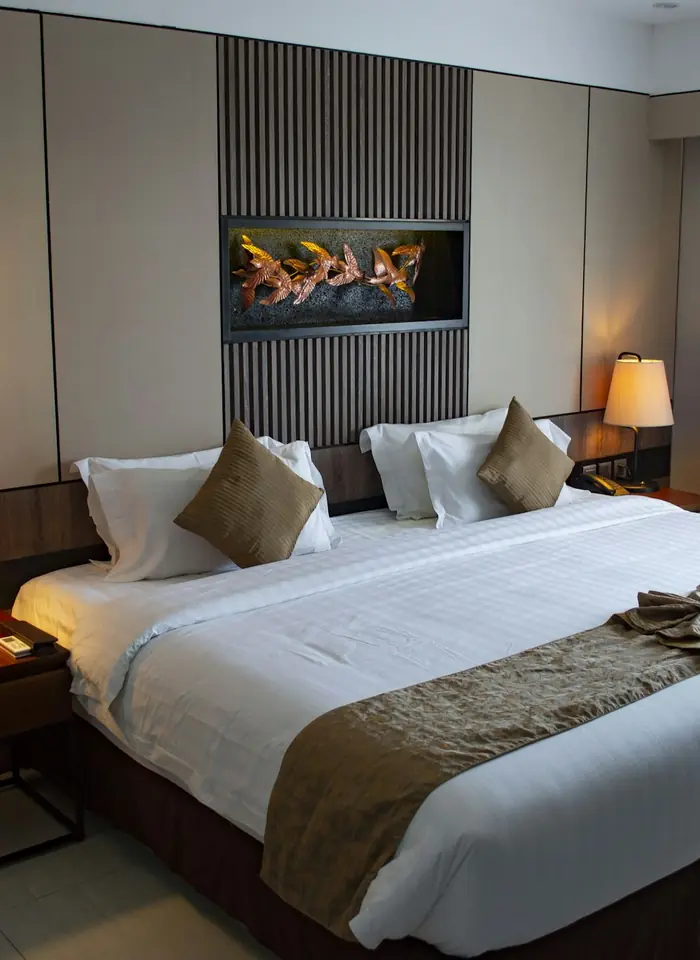
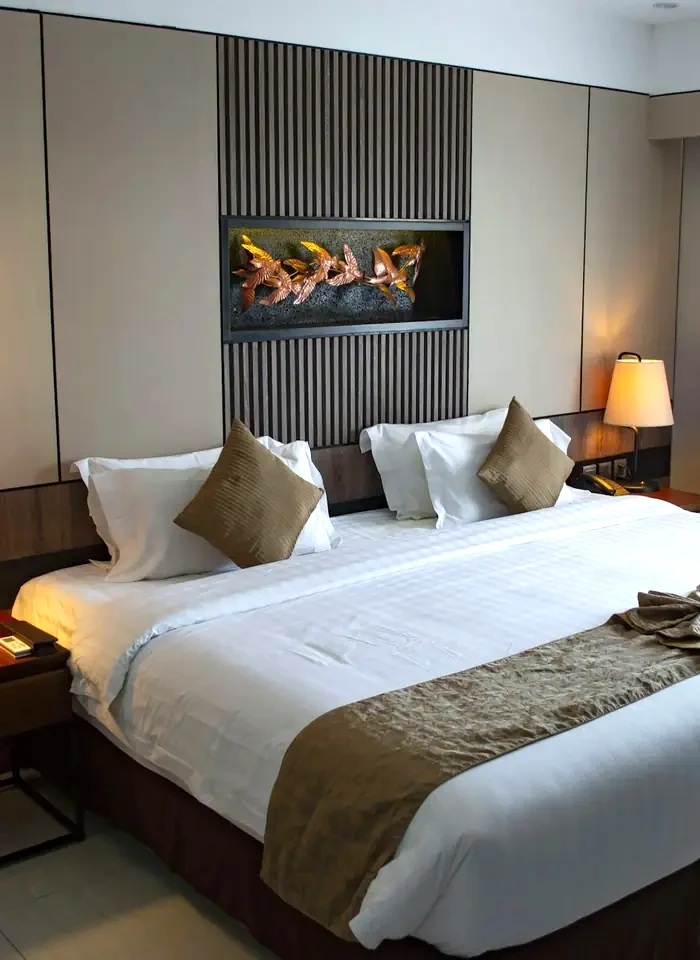
feat(demo): bright split hero for runmis demo (#5)
* feat(demo): bright split hero for runmis demo

Dark overlay made the hero photo muddy; the client's current site looked
brighter. Large arched facade photo, no overlay, in named and anon variants.

* fix(demo): one-line sample banner on phones

diff --git a/demo/runmis/index.html b/demo/runmis/index.html
@@ -27,6 +27,7 @@ a{color:var(--wine)}
 .ic{width:22px;height:22px;flex:none;fill:none;stroke:currentColor;stroke-width:1.8;stroke-linecap:round;stroke-linejoin:round}
 .demo{background:var(--ink);color:#f5e9d1;font-size:13px;text-align:center;padding:7px 16px}
 .demo a{color:#fff;display:inline-block;padding:9px 2px}
+@media (max-width:480px){.demo{font-size:10.5px;padding:2px 6px;white-space:nowrap;letter-spacing:-.1px}.demo a{padding:8px 0}}
 header.top{position:sticky;top:0;z-index:20;background:rgba(251,245,234,.96);border-bottom:1px solid var(--line);backdrop-filter:blur(6px)}
 header.top .wrap{display:flex;align-items:center;gap:10px;min-height:68px}
 .logo{display:flex;align-items:center;gap:10px;text-decoration:none;color:var(--wine);margin-right:auto}
@@ -44,22 +45,25 @@ nav a:hover{background:var(--sand);color:var(--wine)}
 .btn .ic{width:20px;height:20px}
 .btn-gold{background:var(--brass);color:#2a1a00}.btn-gold:hover{background:#ecc378}
 .btn-wine{background:var(--wine);color:#fff}.btn-wine:hover{background:var(--wine-d)}
-.btn-line{border-color:rgba(255,255,255,.75);color:#fff}.btn-line:hover{background:rgba(255,255,255,.14)}
+.btn-line{border-color:var(--wine);color:var(--wine)}.btn-line:hover{background:var(--sand)}
 .top .btn{min-height:44px;padding:0 16px;font-size:14px;display:none}
 a:focus-visible,button:focus-visible,input:focus-visible,select:focus-visible,textarea:focus-visible{outline:3px solid var(--oak);outline-offset:2px}
-.hero :focus-visible{outline-color:var(--brass)}
-.hero{position:relative;isolation:isolate;color:#fff;background:var(--wine-d);overflow:hidden}
-.hero picture,.hero picture img{position:absolute;inset:0;width:100%;height:100%;object-fit:cover;z-index:-2}
-.hero::before{content:"";position:absolute;inset:0;z-index:-1;background:linear-gradient(180deg,rgba(60,8,8,.72),rgba(60,8,8,.58) 45%,rgba(30,6,6,.9))}
-.hero .wrap{display:grid;gap:26px;padding:34px 0 40px}
-.eyebrow{display:inline-flex;align-items:center;gap:8px;color:var(--brass);font-weight:700;letter-spacing:.1em;text-transform:uppercase;font-size:13px;margin:0 0 14px}
+.hero{background:linear-gradient(180deg,var(--cream),var(--sand));overflow:hidden}
+.hero .wrap{display:grid;gap:22px;padding:22px 0 34px}
+.hero-photo{position:relative;order:-1;margin-bottom:26px}
+.hero-photo picture,.hero-photo img{display:block;width:100%}
+.hero-photo img{height:clamp(300px,84vw,460px);object-fit:cover;object-position:50% 62%;border-radius:999px 999px 28px 28px;box-shadow:0 22px 50px rgba(94,13,11,.18)}
+.eyebrow{display:inline-flex;align-items:center;gap:8px;color:var(--brass-d);font-weight:700;letter-spacing:.1em;text-transform:uppercase;font-size:13px;margin:0 0 14px}
 .eyebrow .ic{width:18px;height:18px}
 h1,h2,h3{font-family:var(--serif);font-weight:700;text-wrap:balance}
 h1{font-size:clamp(34px,8.4vw,60px);line-height:1.08;margin:0 0 18px;letter-spacing:-.01em}
-h1 em{color:var(--brass);font-style:italic}
-.lead{font-size:17px;color:#f6e9e0;max-width:52ch;margin:0 0 22px;text-wrap:pretty}
+h1 em{color:var(--wine);font-style:italic}
+.lead{font-size:17px;color:var(--muted);max-width:52ch;margin:0 0 22px;text-wrap:pretty}
 .cta{display:grid;gap:12px}
-.facts{background:rgba(255,248,236,.96);color:var(--ink);border-radius:20px;padding:20px 22px;display:grid;gap:12px;box-shadow:0 20px 50px rgba(0,0,0,.35)}
+.facts{background:#fff;color:var(--ink);border:1px solid var(--line);border-radius:20px;padding:18px 22px;display:grid;gap:10px;box-shadow:0 18px 44px rgba(94,13,11,.16)}
+.hero-photo .facts{position:absolute;left:-6px;right:-6px;bottom:-22px;grid-template-columns:auto 1fr;align-items:center;gap:2px 18px;padding:10px 18px}
+.hero-photo .facts h2,.hero-photo .facts ul{display:none}
+.hero-photo .price-big{font-size:34px;display:flex;align-items:baseline;gap:8px;flex-wrap:wrap}.hero-photo .price-big small{margin:0;font-size:14px}
 .facts h2{font-size:15px;margin:0;font-family:var(--sans);letter-spacing:.08em;text-transform:uppercase;color:var(--wine)}
 .price-big{font:700 44px/1 var(--serif);color:var(--wine)}.price-big small{display:block;margin-top:6px;font:500 15px var(--sans);color:var(--muted)}
 .facts ul{list-style:none;margin:0;padding:0;display:grid;gap:10px}
@@ -170,11 +174,15 @@ footer .fl a{display:inline-flex;align-items:center;min-height:44px}
  .pricegrid{grid-template-columns:1fr 1fr}
 }
 @media(min-width:960px){
- .hero::before{background:linear-gradient(90deg,rgba(48,6,6,.9),rgba(48,6,6,.62) 55%,rgba(48,6,6,.3))}
  nav{display:flex}
  .top .btn{display:inline-flex}
- .hero .wrap{grid-template-columns:1.35fr .8fr;align-items:center;padding:96px 0 104px;gap:56px}
- .lead{font-size:18px}
+ .hero .wrap{grid-template-columns:1fr 1fr;align-items:center;padding:28px 0 40px;gap:56px}
+ .hero-photo{order:0}.hero-photo img{height:max(560px,calc(100vh - 230px));max-height:760px;border-radius:999px 999px 32px 32px}
+ .hero-photo .facts{left:-40px;right:auto;bottom:28px;grid-template-columns:1fr;padding:18px 24px;width:370px}
+ .hero-photo .facts h2{display:block}.hero-photo .facts ul{display:grid;gap:8px}.hero-photo .facts li:nth-child(n+2){display:none}
+ .hero-photo .price-big{font-size:44px;display:block}.hero-photo .price-big small{margin-top:6px;font-size:15px}
+ .lead{font-size:18px;max-width:46ch}
+ .hero h1{font-size:54px}
  .near{grid-template-columns:1.4fr 1fr;align-items:start}
  .formwrap{grid-template-columns:1.5fr 1fr;align-items:start}
  .contacts{grid-template-columns:1fr 1.2fr}
@@ -236,10 +244,6 @@ footer .fl a{display:inline-flex;align-items:center;min-height:44px}
 
 <main id="top">
 <section class="hero" style="padding:0">
- <picture>
-  <source media="(max-width:700px)" srcset="hero-700.webp" type="image/webp">
-  <img src="hero-1600.webp" width="1600" height="900" alt="Šviesus dvivietis kambarys su dviem lovomis ir stalu prie lango" fetchpriority="high">
- </picture>
  <div class="wrap">
   <div>
    <p class="eyebrow"><svg class="ic"><use href="#i-pin"/></svg><span data-t="eyebrow">Šeimyninis viešbutis Vilniuje</span></p>
@@ -250,6 +254,11 @@ footer .fl a{display:inline-flex;align-items:center;min-height:44px}
     <a class="btn btn-line" href="#kainos" data-t="cta2">Žiūrėti kainas</a>
    </div>
   </div>
+  <div class="hero-photo">
+  <picture>
+    <source media="(max-width:700px)" srcset="hero-700.webp" type="image/webp">
+    <img src="hero-1200.webp" width="1200" height="1500" alt="Viešbučio fasadas su gėlių vazonais ir užrašu HOTEL" fetchpriority="high">
+   </picture>
   <aside class="facts" aria-label="Svarbiausia">
    <h2 data-t="f_h">Trumpai</h2>
    <div class="price-big"><span data-t="f_from">nuo</span> 44&nbsp;€ <small data-t="f_per">už kambarį per parą</small></div>
@@ -259,6 +268,7 @@ footer .fl a{display:inline-flex;align-items:center;min-height:44px}
     <li><svg class="ic"><use href="#i-lang"/></svg><span data-t="f3">Kalbame lenkiškai, rusiškai, angliškai ir lietuviškai</span></li>
    </ul>
   </aside>
+  </div>
  </div>
 </section>
 
@@ -509,7 +519,7 @@ g_k:"Photos",g_h:"A closer look",m_k:"Contact",m_h:"Find us near the station",m_
 };
 var nodes=[].slice.call(document.querySelectorAll('[data-t]'));
 T.lt={};nodes.forEach(function(n){var k=n.getAttribute('data-t');if(!(k in T.lt))T.lt[k]=n.innerHTML;});
-var alts={lt:["Šviesus dvivietis kambarys su dviem lovomis ir stalu prie lango"],pl:["Jasny pokój dwuosobowy z dwoma łóżkami i stolikiem przy oknie"],en:["Bright twin room with two beds and a table by the window"]};
+var alts={lt:["Viešbučio fasadas su gėlių vazonais ir užrašu HOTEL"],pl:["Fasada hotelu z donicami z kwiatami i napisem HOTEL"],en:["Hotel facade with flower boxes under the HOTEL sign"]};
 var wd={lt:["sk","pr","an","tr","kt","pn","št"],pl:["nd","pn","wt","śr","cz","pt","sb"],en:["Sun","Mon","Tue","Wed","Thu","Fri","Sat"]};
 var guestsLbl={lt:["svečias","svečiai","svečių"],pl:["gość","gości","gości"],en:["guest","guests","guests"]};
 var nightsLbl={lt:["naktis","naktys","naktų"],pl:["noc","noce","nocy"],en:["night","nights","nights"]};

diff --git a/demo/runmis/anon.html b/demo/runmis/anon.html
@@ -27,6 +27,7 @@ a{color:var(--wine)}
 .ic{width:22px;height:22px;flex:none;fill:none;stroke:currentColor;stroke-width:1.8;stroke-linecap:round;stroke-linejoin:round}
 .demo{background:var(--ink);color:#f5e9d1;font-size:13px;text-align:center;padding:7px 16px}
 .demo a{color:#fff;display:inline-block;padding:9px 2px}
+@media (max-width:480px){.demo{font-size:10.5px;padding:2px 6px;white-space:nowrap;letter-spacing:-.1px}.demo a{padding:8px 0}}
 header.top{position:sticky;top:0;z-index:20;background:rgba(251,245,234,.96);border-bottom:1px solid var(--line);backdrop-filter:blur(6px)}
 header.top .wrap{display:flex;align-items:center;gap:10px;min-height:68px}
 .logo{display:flex;align-items:center;gap:10px;text-decoration:none;color:var(--wine);margin-right:auto}
@@ -44,22 +45,25 @@ nav a:hover{background:var(--sand);color:var(--wine)}
 .btn .ic{width:20px;height:20px}
 .btn-gold{background:var(--brass);color:#2a1a00}.btn-gold:hover{background:#ecc378}
 .btn-wine{background:var(--wine);color:#fff}.btn-wine:hover{background:var(--wine-d)}
-.btn-line{border-color:rgba(255,255,255,.75);color:#fff}.btn-line:hover{background:rgba(255,255,255,.14)}
+.btn-line{border-color:var(--wine);color:var(--wine)}.btn-line:hover{background:var(--sand)}
 .top .btn{min-height:44px;padding:0 16px;font-size:14px;display:none}
 a:focus-visible,button:focus-visible,input:focus-visible,select:focus-visible,textarea:focus-visible{outline:3px solid var(--oak);outline-offset:2px}
-.hero :focus-visible{outline-color:var(--brass)}
-.hero{position:relative;isolation:isolate;color:#fff;background:var(--wine-d);overflow:hidden}
-.hero picture,.hero picture img{position:absolute;inset:0;width:100%;height:100%;object-fit:cover;z-index:-2}
-.hero::before{content:"";position:absolute;inset:0;z-index:-1;background:linear-gradient(180deg,rgba(60,8,8,.72),rgba(60,8,8,.58) 45%,rgba(30,6,6,.9))}
-.hero .wrap{display:grid;gap:26px;padding:34px 0 40px}
-.eyebrow{display:inline-flex;align-items:center;gap:8px;color:var(--brass);font-weight:700;letter-spacing:.1em;text-transform:uppercase;font-size:13px;margin:0 0 14px}
+.hero{background:linear-gradient(180deg,var(--cream),var(--sand));overflow:hidden}
+.hero .wrap{display:grid;gap:22px;padding:22px 0 34px}
+.hero-photo{position:relative;order:-1;margin-bottom:26px}
+.hero-photo picture,.hero-photo img{display:block;width:100%}
+.hero-photo img{height:clamp(300px,84vw,460px);object-fit:cover;object-position:50% 62%;border-radius:999px 999px 28px 28px;box-shadow:0 22px 50px rgba(94,13,11,.18)}
+.eyebrow{display:inline-flex;align-items:center;gap:8px;color:var(--brass-d);font-weight:700;letter-spacing:.1em;text-transform:uppercase;font-size:13px;margin:0 0 14px}
 .eyebrow .ic{width:18px;height:18px}
 h1,h2,h3{font-family:var(--serif);font-weight:700;text-wrap:balance}
 h1{font-size:clamp(34px,8.4vw,60px);line-height:1.08;margin:0 0 18px;letter-spacing:-.01em}
-h1 em{color:var(--brass);font-style:italic}
-.lead{font-size:17px;color:#f6e9e0;max-width:52ch;margin:0 0 22px;text-wrap:pretty}
+h1 em{color:var(--wine);font-style:italic}
+.lead{font-size:17px;color:var(--muted);max-width:52ch;margin:0 0 22px;text-wrap:pretty}
 .cta{display:grid;gap:12px}
-.facts{background:rgba(255,248,236,.96);color:var(--ink);border-radius:20px;padding:20px 22px;display:grid;gap:12px;box-shadow:0 20px 50px rgba(0,0,0,.35)}
+.facts{background:#fff;color:var(--ink);border:1px solid var(--line);border-radius:20px;padding:18px 22px;display:grid;gap:10px;box-shadow:0 18px 44px rgba(94,13,11,.16)}
+.hero-photo .facts{position:absolute;left:-6px;right:-6px;bottom:-22px;grid-template-columns:auto 1fr;align-items:center;gap:2px 18px;padding:10px 18px}
+.hero-photo .facts h2,.hero-photo .facts ul{display:none}
+.hero-photo .price-big{font-size:34px;display:flex;align-items:baseline;gap:8px;flex-wrap:wrap}.hero-photo .price-big small{margin:0;font-size:14px}
 .facts h2{font-size:15px;margin:0;font-family:var(--sans);letter-spacing:.08em;text-transform:uppercase;color:var(--wine)}
 .price-big{font:700 44px/1 var(--serif);color:var(--wine)}.price-big small{display:block;margin-top:6px;font:500 15px var(--sans);color:var(--muted)}
 .facts ul{list-style:none;margin:0;padding:0;display:grid;gap:10px}
@@ -170,11 +174,15 @@ footer .fl a{display:inline-flex;align-items:center;min-height:44px}
  .pricegrid{grid-template-columns:1fr 1fr}
 }
 @media(min-width:960px){
- .hero::before{background:linear-gradient(90deg,rgba(48,6,6,.9),rgba(48,6,6,.62) 55%,rgba(48,6,6,.3))}
  nav{display:flex}
  .top .btn{display:inline-flex}
- .hero .wrap{grid-template-columns:1.35fr .8fr;align-items:center;padding:96px 0 104px;gap:56px}
- .lead{font-size:18px}
+ .hero .wrap{grid-template-columns:1fr 1fr;align-items:center;padding:28px 0 40px;gap:56px}
+ .hero-photo{order:0}.hero-photo img{height:max(560px,calc(100vh - 230px));max-height:760px;border-radius:999px 999px 32px 32px}
+ .hero-photo .facts{left:-40px;right:auto;bottom:28px;grid-template-columns:1fr;padding:18px 24px;width:370px}
+ .hero-photo .facts h2{display:block}.hero-photo .facts ul{display:grid;gap:8px}.hero-photo .facts li:nth-child(n+2){display:none}
+ .hero-photo .price-big{font-size:44px;display:block}.hero-photo .price-big small{margin-top:6px;font-size:15px}
+ .lead{font-size:18px;max-width:46ch}
+ .hero h1{font-size:54px}
  .near{grid-template-columns:1.4fr 1fr;align-items:start}
  .formwrap{grid-template-columns:1.5fr 1fr;align-items:start}
  .contacts{grid-template-columns:1fr 1.2fr}
@@ -236,10 +244,6 @@ footer .fl a{display:inline-flex;align-items:center;min-height:44px}
 
 <main id="top">
 <section class="hero" style="padding:0">
- <picture>
-  <source media="(max-width:700px)" srcset="hero-700.webp" type="image/webp">
-  <img src="hero-1600.webp" width="1600" height="900" alt="Šviesus dvivietis kambarys su dviem lovomis ir stalu prie lango" fetchpriority="high">
- </picture>
  <div class="wrap">
   <div>
    <p class="eyebrow"><svg class="ic"><use href="#i-pin"/></svg><span data-t="eyebrow">Šeimyninis viešbutis Vilniuje</span></p>
@@ -250,6 +254,11 @@ footer .fl a{display:inline-flex;align-items:center;min-height:44px}
     <a class="btn btn-line" href="#kainos" data-t="cta2">Žiūrėti kainas</a>
    </div>
   </div>
+  <div class="hero-photo">
+  <picture>
+    <source media="(max-width:700px)" srcset="hero-700.webp" type="image/webp">
+    <img src="hero-1200.webp" width="1200" height="1500" alt="Šviesus viešbučio kambarys su dvigule lova" fetchpriority="high">
+   </picture>
   <aside class="facts" aria-label="Svarbiausia">
    <h2 data-t="f_h">Trumpai</h2>
    <div class="price-big"><span data-t="f_from">nuo</span> 44&nbsp;€ <small data-t="f_per">už kambarį per parą</small></div>
@@ -259,6 +268,7 @@ footer .fl a{display:inline-flex;align-items:center;min-height:44px}
     <li><svg class="ic"><use href="#i-lang"/></svg><span data-t="f3">Kalbame lenkiškai, rusiškai, angliškai ir lietuviškai</span></li>
    </ul>
   </aside>
+  </div>
  </div>
 </section>
 
